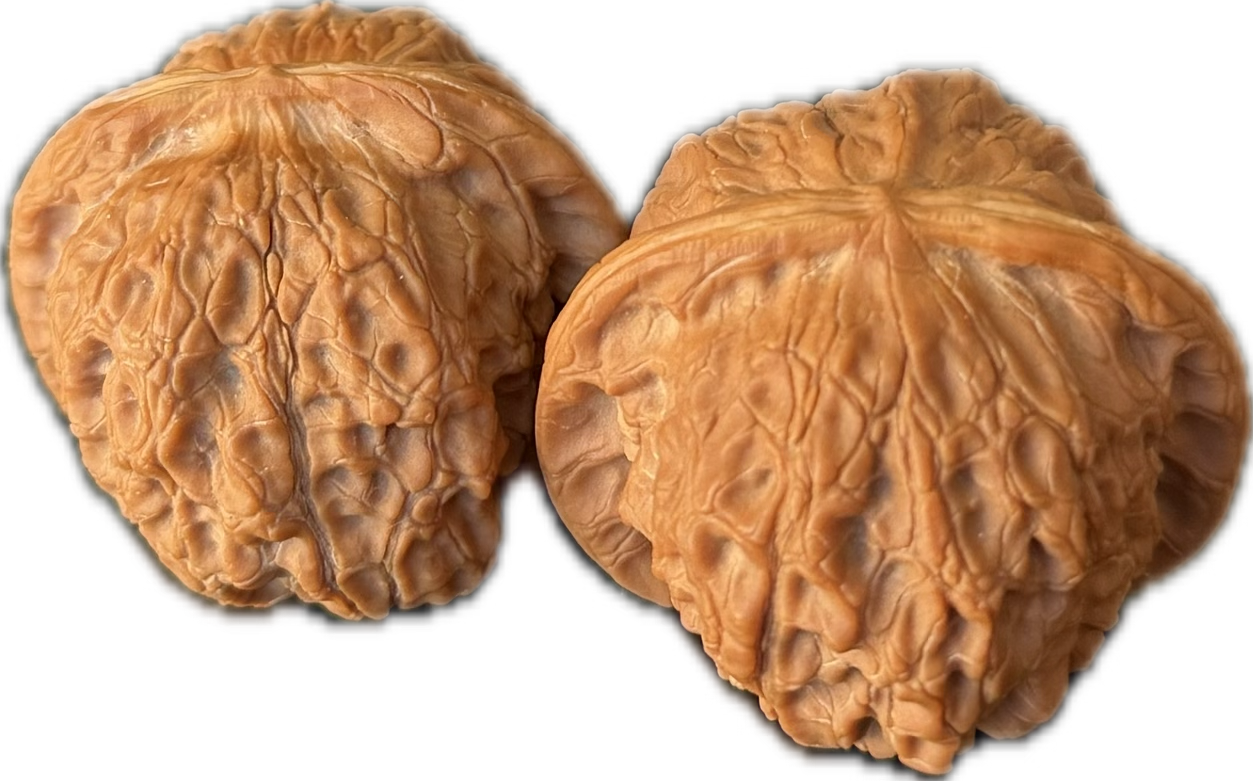
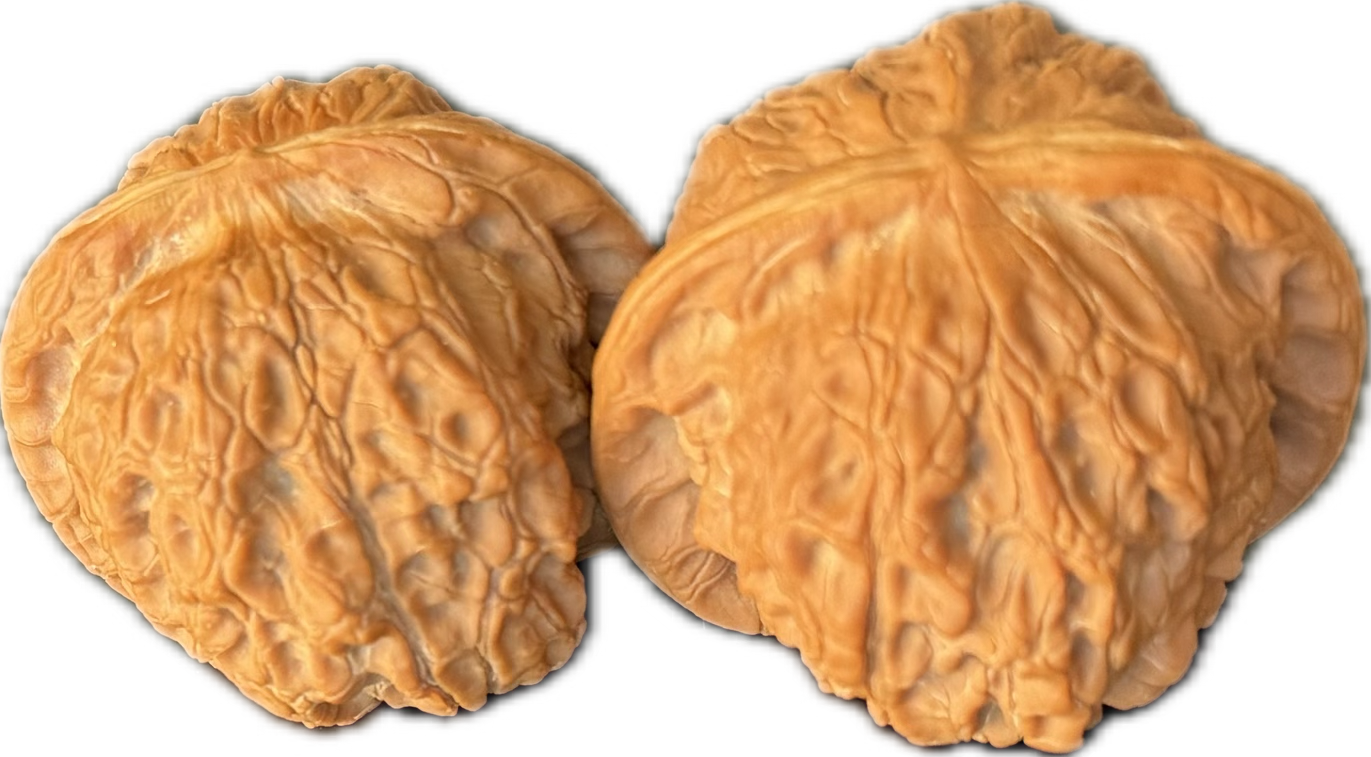
polish walnut image

diff --git a/src/styles.css b/src/styles.css
@@ -115,27 +115,19 @@ footer { padding: 0 0 32px; color: #706b62; font-size: 0.875rem; }
 .object-shape { display: block; width: 36px; height: 36px; box-shadow: 0 3px 6px rgb(41 40 35 / 10%); transition: scale 180ms ease; }
 .margin-object:hover .object-shape { scale: 1.08; }
 .object-image {
-  --sticker-outline: #e8d9bd;
   width: 100%;
   height: auto;
   box-shadow: none;
-  /* Follow the transparent cutout rather than the image's rectangular bounds. */
-  filter:
-    drop-shadow(2.5px 0 0 var(--sticker-outline))
-    drop-shadow(-2.5px 0 0 var(--sticker-outline))
-    drop-shadow(0 2.5px 0 var(--sticker-outline))
-    drop-shadow(0 -2.5px 0 var(--sticker-outline))
-    drop-shadow(0 3px 3px rgb(41 40 35 / 18%));
   pointer-events: none;
 }
-.object-dialog { width: min(440px, calc(100% - 40px)); max-height: calc(100dvh - 48px); padding: 0; border: 1px solid #dedbd3; border-radius: 18px; color: inherit; background: #faf9f6; box-shadow: 0 24px 80px rgb(41 40 35 / 15%); }
+.object-dialog { width: min(560px, calc(100% - 40px)); height: 580px; max-height: calc(100dvh - 48px); overflow: auto; padding: 0; border: 1px solid #dedbd3; border-radius: 18px; color: inherit; background: #faf9f6; box-shadow: 0 24px 80px rgb(41 40 35 / 15%); }
 .object-dialog::backdrop { background: rgb(41 40 35 / 25%); backdrop-filter: blur(4px); }
-.object-dialog-content { position: relative; padding: 40px 32px; }
+.object-dialog-content { position: relative; --dialog-padding: clamp(24px, 5vw, 40px); padding: calc(var(--dialog-padding) - 6px) var(--dialog-padding) var(--dialog-padding); }
 .object-close { position: absolute; top: 8px; right: 8px; width: 36px; height: 36px; border: 0; border-radius: 50%; background: transparent; font: inherit; font-size: 24px; color: #706b62; cursor: pointer; }
 .object-close:hover { background: #eeece5; }
-.object-eyebrow { color: #706b62; font-size: 12px; margin-bottom: 12px; }
-.object-dialog h2 { font-size: 24px; margin-bottom: 16px; }
-.object-dialog #object-description { color: #706b62; font-size: 14px; }
+.object-dialog h2 { font-size: 28px; line-height: 1.2; padding-right: 24px; margin-bottom: 24px; }
+.object-dialog-image { display: block; width: 100%; height: 230px; object-fit: contain; margin-bottom: 28px; }
+.object-dialog #object-description { color: #706b62; font-size: 15px; }
 @media (max-width: 880px) {
   .page { width: calc(100% - 112px); }
 }

diff --git a/src/components/MarginObjects.tsx b/src/components/MarginObjects.tsx
@@ -197,9 +197,9 @@ export function MarginObjects() {
       }}>
         <div className="object-dialog-content">
           <form method="dialog"><button className="object-close" aria-label="Close details">×</button></form>
-          <p className="object-eyebrow">A personal object</p>
           <h2 id="object-title">{selected?.label}</h2>
-          <p id="object-description">A placeholder for a personal object. Its story and significance will go here.</p>
+          {selected && <img className="object-dialog-image" src={selected.image} alt={selected.label} />}
+          <p id="object-description">More about {selected?.label.toLowerCase()} coming soon.</p>
         </div>
       </dialog>
     </>
